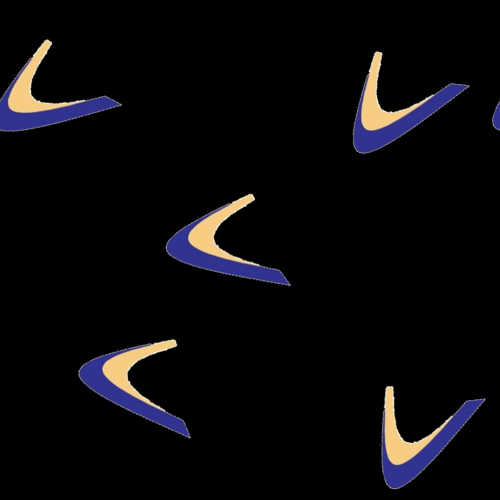
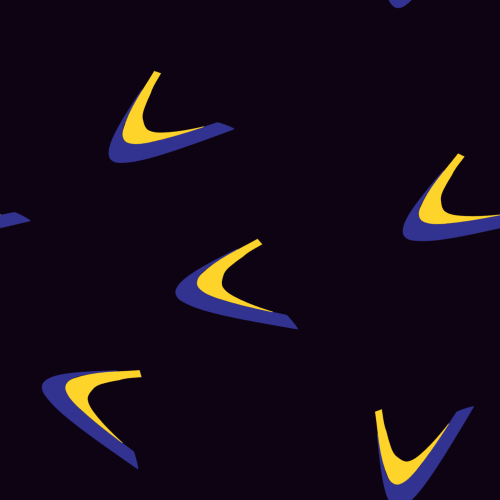
Se ha incluido la logica de fechas a los nombres de los word, se ha cambiado el fondo, se ha añadido el footer y el dialog de instrucciones

diff --git a/src/main.js b/src/main.js
@@ -100,7 +100,7 @@ function inicio() {
 
 			<hr class="my-6">
 
-			<div>
+			<div class="mb-10">
 				<h2 class="font-bold text-lg mb-2">SEGUNDOS</h2>
 				<div class="grid grid-cols-2 gap-6">
 					<div>
@@ -115,11 +115,11 @@ function inicio() {
 			</div>
 
 
-			<button id="descargarDocumentos" class="mt-2 px-4 py-2 bg-blue-500 text-white rounded hover:bg-blue-600 transition">
-				Descargar
+			<button id="descargarDocumentos" class="mt-2 px-4 py-2 bg-blue-500 text-white rounded hover:bg-blue-600 transition flex items-center float-left">
+				Descargar<img src="/TraduccionMenu/download.png" class="w-5 h-5 ms-0.5">
 			</button>
 
-			<button id="cerrarDialogo" class="mt-2 px-4 py-2 bg-red-500 text-white rounded hover:bg-red-600 transition">
+			<button id="cerrarDialogo" class="mt-2 px-4 py-2 bg-red-500 text-white rounded hover:bg-red-600 transition float-right">
 				✘ Cerrar
 			</button>
 		`;
@@ -200,23 +200,31 @@ function inicio() {
 
 			// Estilos con Tailwind para diseño flotante moderno
 			dialogo.className = `
-			bg-[#2a0e43b3] text-white rounded-xl p-6 
+			bg-[#2a0e43b3] text-white rounded-xl p-6 max-h-[80vh]
 			max-w-3xl w-full border border-gray-300 shadow-2xl
 			backdrop:bg-black/30 backdrop:backdrop-blur-sm
 			`;
 
 			dialogo.style.margin = "auto";
 
-			// Contenido del diálogo
+			// Contenido del diálogo con instrucciones ordenadas
 			dialogo.innerHTML = `
-			<h1 class="text-2xl font-semibold mb-3">Información</h1>
-			<p class="mb-4">
-				Este es un diálogo flotante personalizado usando el elemento <code>&lt;dialog&gt;</code>.
-			</p>
-			<button id="cerrarDialogo" class="mt-2 px-4 py-2 bg-red-500 text-white rounded hover:bg-red-600 transition">
-				✘ Cerrar
-			</button>
-		`;
+				<h1 class="text-2xl font-semibold mb-4">INSTRUCCIONES DE USO</h1>
+
+				<h2 class="text-lg font-bold mt-3">Paso 1.</h2>
+				<p>Introduce los platos en español, en su columna correspondiente (<strong>Primero</strong> o <strong>Segundo</strong>). Añade campos si es necesario.</p>
+
+				<h2 class="text-lg font-bold mt-3">Paso 2.</h2>
+				<p>Haz clic en <span class="bg-amber-600 text-white mx-0.5 px-2 py-1.5 rounded-md transition"><strong>CONFIRMAR ✅</strong></span>, se mostrarán los platos introducidos y la traducción al inglés de estos.</p>
+
+				<h2 class="text-lg font-bold mt-3">Paso 3.</h2>
+				<p>Si es todo correcto, haz clic en <strong>Descargar</strong> y obtendrás 2 documentos Word del menú (<em>Español</em> e <em>Inglés</em>).</p>
+
+				<button id="cerrarDialogo" class="mt-4 px-4 py-2 bg-red-500 text-white rounded hover:bg-red-600 transition float-right">
+					✘ Cerrar
+				</button>
+			`;
+
 
 			// Agregar al DOM y mostrar
 			document.body.appendChild(dialogo);

diff --git a/src/documentoIngles.ts b/src/documentoIngles.ts
@@ -200,8 +200,8 @@ export async function generateDocIngles(arrayPrimeros, arraySegundos) {
             margin: {
               top: 720,      // 1.27 cm
               bottom: 720,   // puede ajustar si desea
-              left: 720,
-              right: 567,
+              left: 900,
+              right: 900,
             },
           },
         },
@@ -262,7 +262,7 @@ export async function generateDocIngles(arrayPrimeros, arraySegundos) {
           simbolo("****"),
           ...arrayPrimeros.map(p => normal(`*${p}`)),
           simbolo("......................................................................................."),
-           ...arraySegundos.map(p => normal(`*${p}`)),
+          ...arraySegundos.map(p => normal(`*${p}`)),
           simbolo("............................................................................................."),
           normal("*ASSORTED HOMEMADE DESSERTS"),
           espacios(""),
@@ -281,5 +281,17 @@ export async function generateDocIngles(arrayPrimeros, arraySegundos) {
   });
 
   const blob = await Packer.toBlob(doc);
-  saveAs(blob, "menu_especial_ingles.docx");
+
+  // Obtener fecha actual
+  const fecha = new Date();
+
+  // Formatear fecha en español (día y mes)
+  const opciones: Intl.DateTimeFormatOptions = { day: "2-digit", month: "long" };
+  const fechaFormateada = fecha.toLocaleDateString("es-ES", opciones).toUpperCase();
+
+  // Construir nombre de archivo dinámico
+  const nombreArchivo = `MENU 34 € (INGLES) DESDE ${fechaFormateada}.docx`;
+
+  // Guardar con FileSaver.js
+  saveAs(blob, nombreArchivo);
 };

diff --git a/src/documento.ts b/src/documento.ts
@@ -200,8 +200,8 @@ export async function generateDoc(arrayPrimeros, arraySegundos) {
             margin: {
               top: 720,      // 1.27 cm
               bottom: 720,   // puede ajustar si desea
-              left: 720,
-              right: 567,
+              left: 900,
+              right: 900,
             },
           },
         },
@@ -262,7 +262,7 @@ export async function generateDoc(arrayPrimeros, arraySegundos) {
           simbolo("****"),
           ...arrayPrimeros.map(p => normal(`*${p}`)),
           simbolo("......................................................................................."),
-           ...arraySegundos.map(p => normal(`*${p}`)),
+          ...arraySegundos.map(p => normal(`*${p}`)),
           simbolo("............................................................................................."),
           normal("*SURTIDO DE POSTRES CASEROS"),
           espacios(""),
@@ -281,5 +281,18 @@ export async function generateDoc(arrayPrimeros, arraySegundos) {
   });
 
   const blob = await Packer.toBlob(doc);
-  saveAs(blob, "menu_especial.docx");
+
+
+  // Obtener fecha actual
+  const fecha = new Date();
+
+  // Formatear fecha en español (día y mes)
+  const opciones: Intl.DateTimeFormatOptions = { day: "2-digit", month: "long" };
+  const fechaFormateada = fecha.toLocaleDateString("es-ES", opciones).toUpperCase();
+
+  // Construir nombre de archivo dinámico
+  const nombreArchivo = `MENU 34 € CASTELLANO DESDE ${fechaFormateada}.docx`;
+
+  // Guardar con FileSaver.js
+  saveAs(blob, nombreArchivo);
 };

diff --git a/index.html b/index.html
@@ -3,7 +3,6 @@
 
 <head>
 	<meta charset="UTF-8" />
-	<link rel="icon" type="image/svg+xml" href="/vite.svg" />
 	<meta name="viewport" content="width=device-width, initial-scale=1.0" />
 	<title>Vite App</title>
 	<link rel="stylesheet" href="./src/style.css">
@@ -66,9 +65,13 @@
 		<!-- Botones Inferiores -->
 		<div class="mt-12 flex flex-col sm:flex-row items-center justify-center gap-6">
 			<button id="recogerPlatos"
-				class="bg-amber-600 hover:bg-amber-700 text-white px-8 py-3 rounded-md transition">CONFIRMAR ✅</button>
+				class="bg-amber-600 hover:bg-amber-700 text-white px-8 py-3 font-bold rounded-md transition">CONFIRMAR ✅</button>
 		</div>
 	</main>
+
+	<footer class="bg-[#060108] h-4 w-full fixed-bottom">
+		<p class="text-xs text-gray-500">Castro Urdiales - Adam Janah - Hotel Las Rocas</p>
+	</footer>
 </body>
 
 </html>
